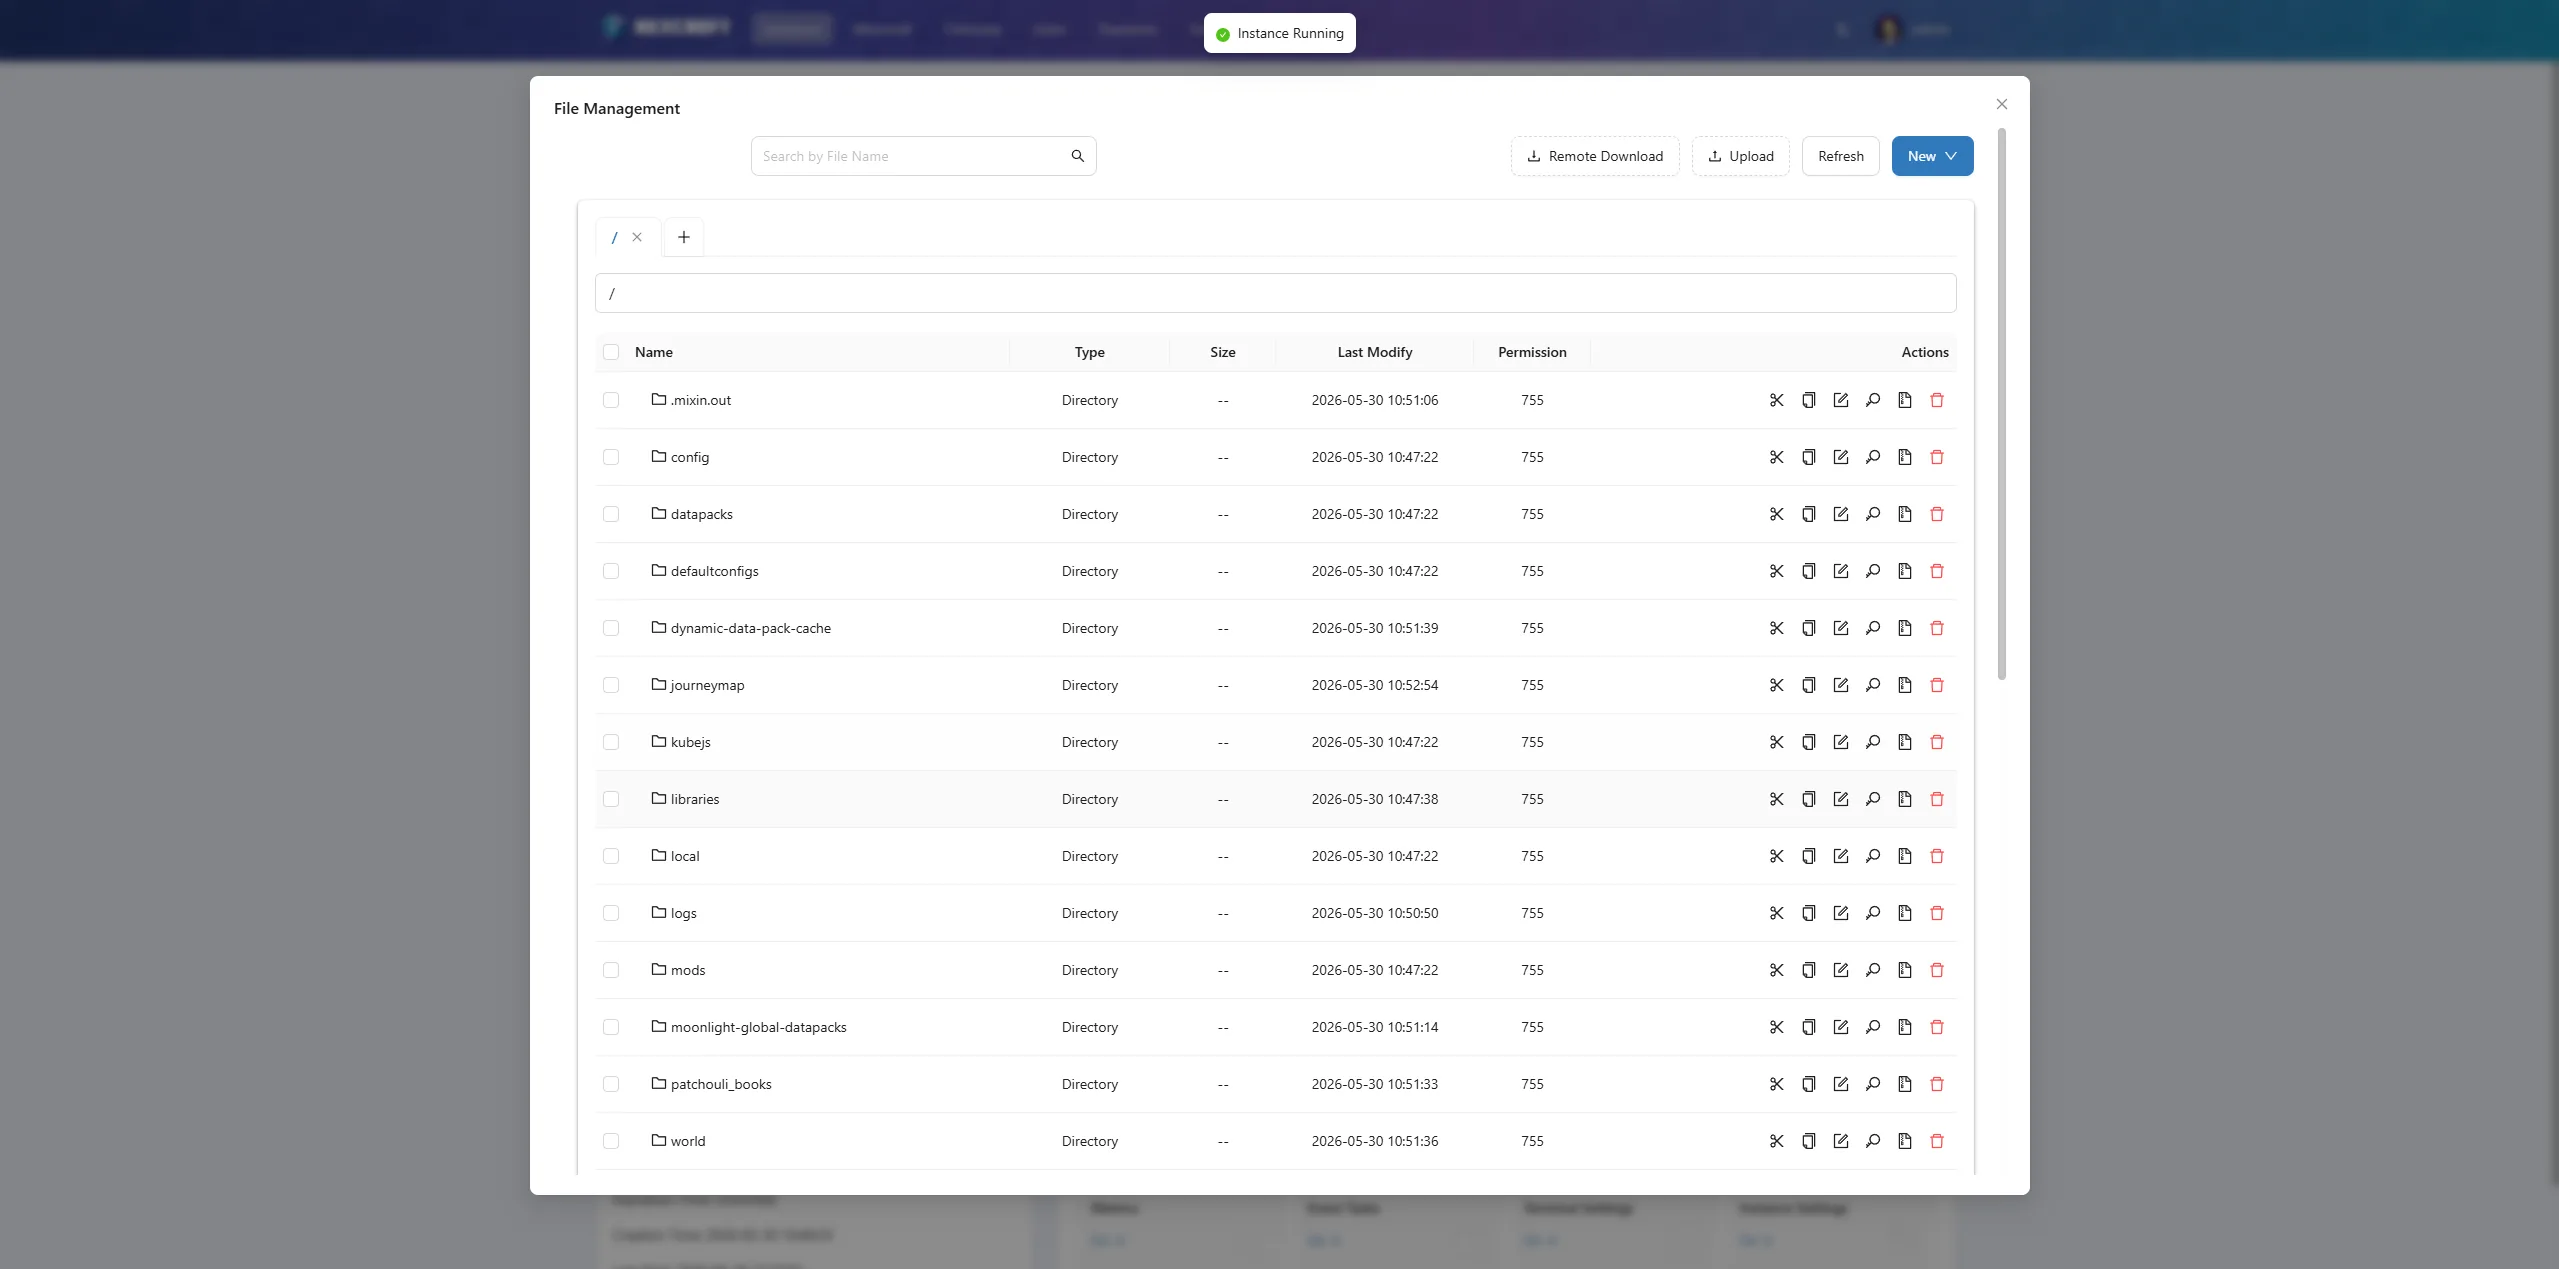
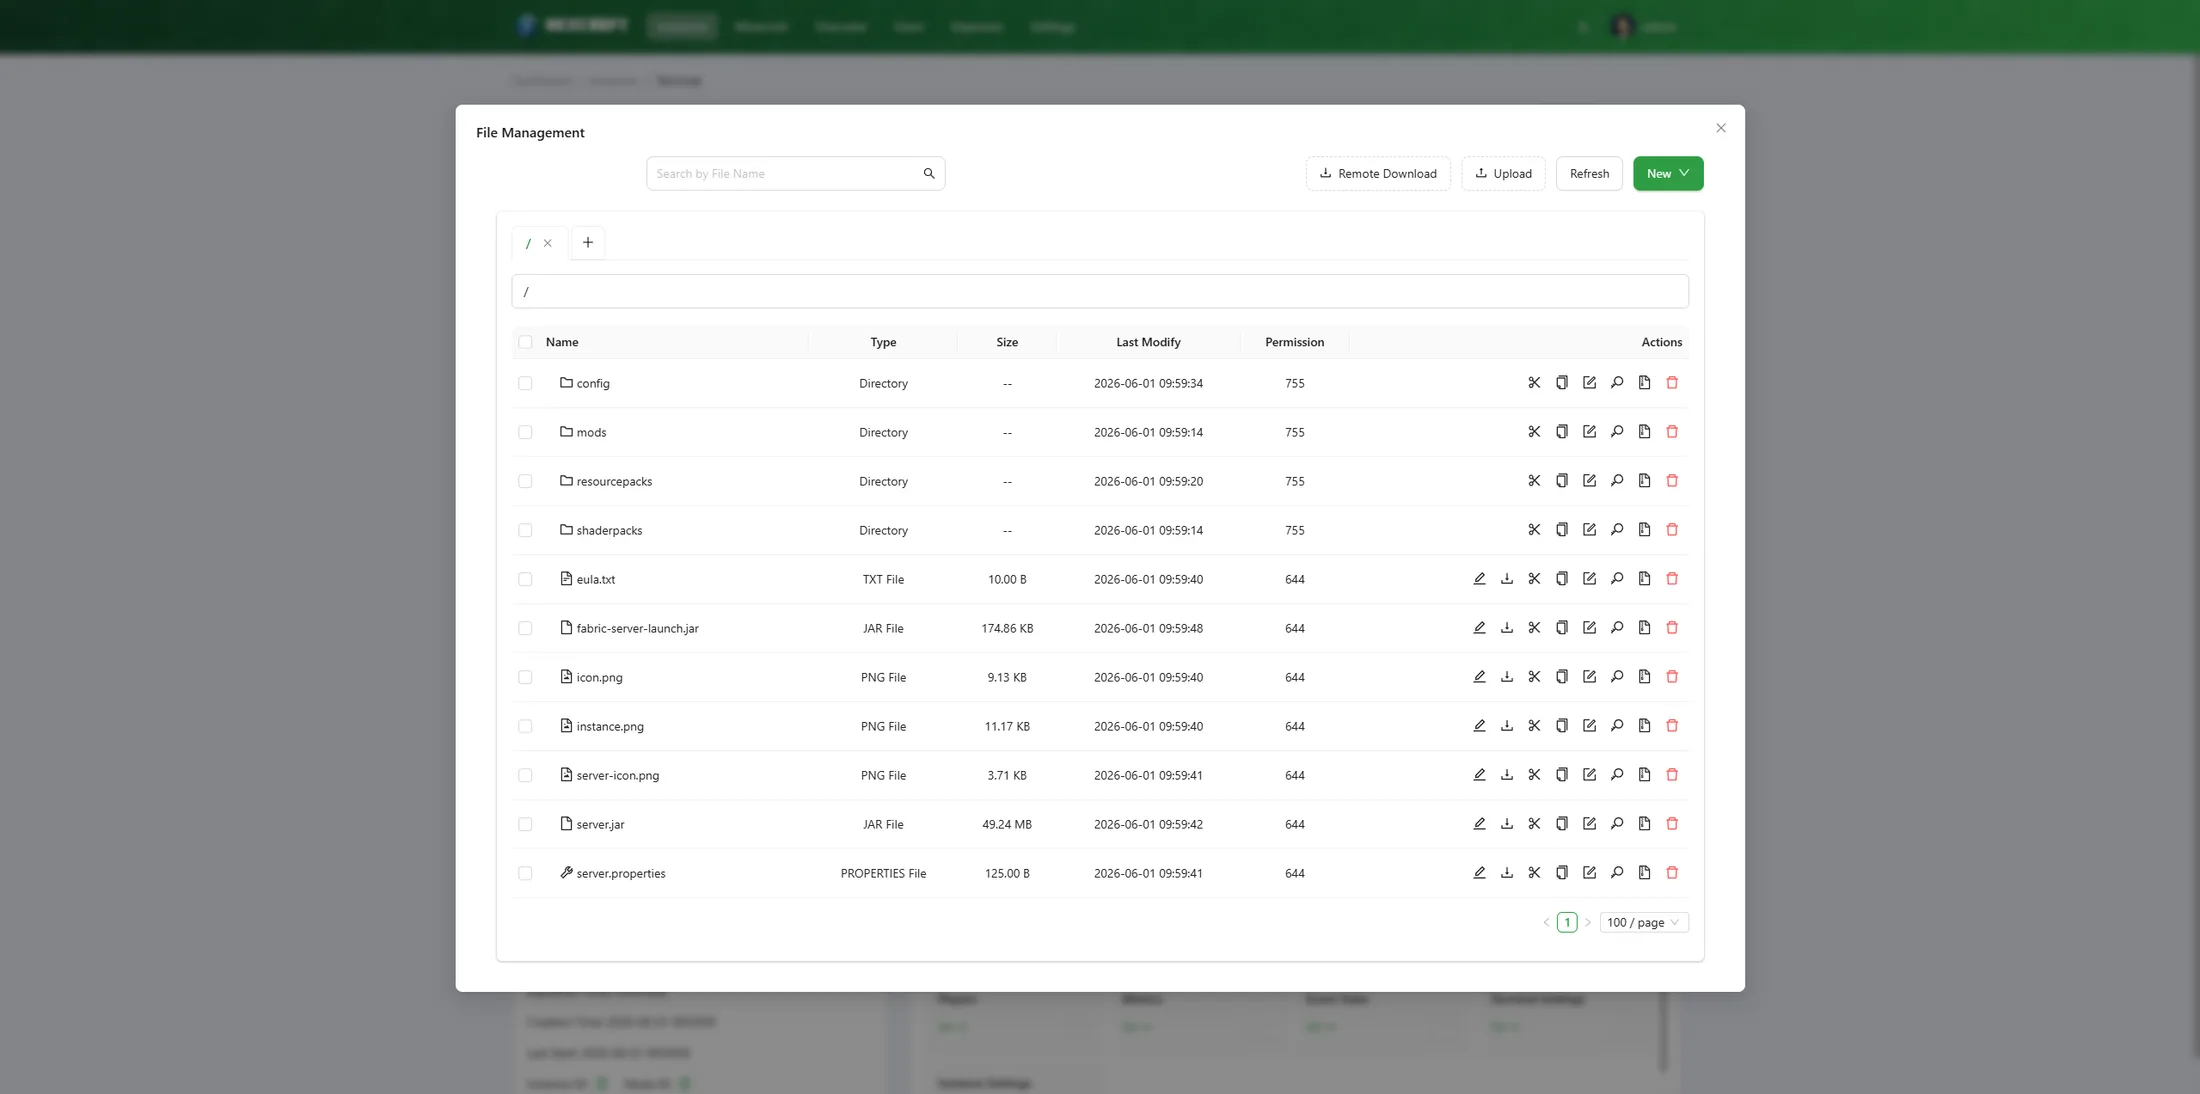
docs: refresh remaining screenshots to new theme (round 2)
Recapture the 9 previously old-theme shots in the current theme so the whole
doc image set is consistent: backups, players, metrics, reset-dialog (Java),
file-management, mod-plugin-manager, scheduled-tasks, profile-themes, daemons.

Also add reset-bedrock.webp (Bedrock reset dialog) + a README row; not wired
into modpacks.md yet — the Bedrock reset still defaults to the vanilla version
list instead of the installed version (parked, tracked separately).

diff --git a/docs/images/README.md b/docs/images/README.md
@@ -25,7 +25,8 @@ Screenshots used by the docs pages and README. All are `.webp` (light mode, full
 | `backups.webp` | Backups card | managing-instances |
 | `players.webp` | Players card (RCON, op/kick/ban) | managing-instances |
 | `metrics.webp` | Metrics card (CPU / RAM / players) | managing-instances |
-| `reset-dialog.webp` | Reset / Reinstall dialog (three modes) | modpacks |
+| `reset-dialog.webp` | Reset / Reinstall dialog — Java (three modes) | modpacks |
+| `reset-bedrock.webp` | Reset / Reinstall dialog — Bedrock | — (parked: Bedrock reset defaults to vanilla list) |
 | `file-management.webp` | File Management | — |
 | `mod-plugin-manager.webp` | Mod & Plugin Manager | — |
 | `scheduled-tasks.webp` | Scheduled Tasks | — |
